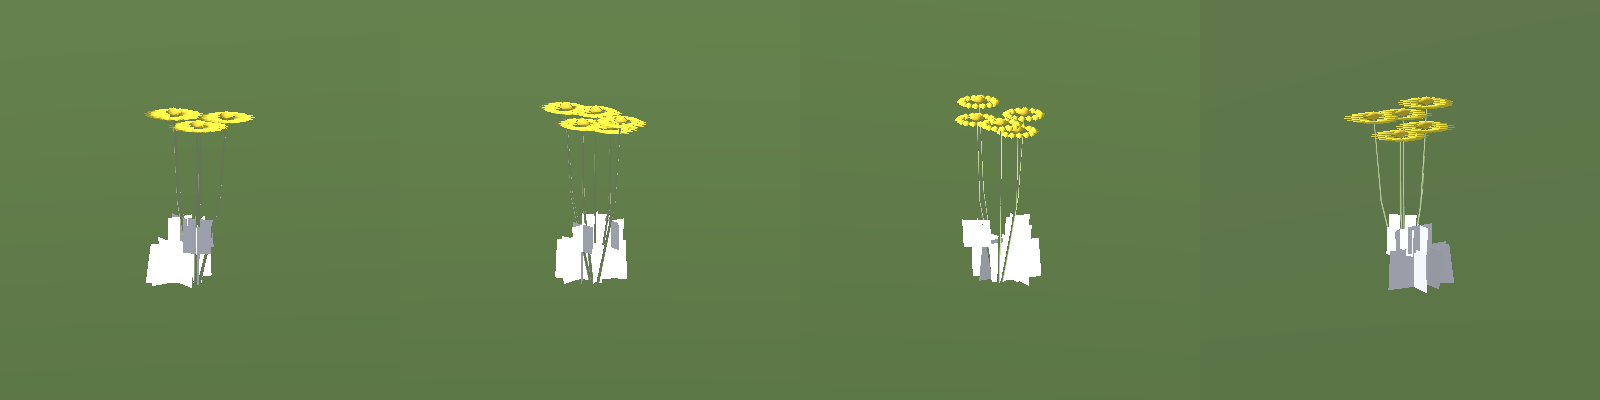
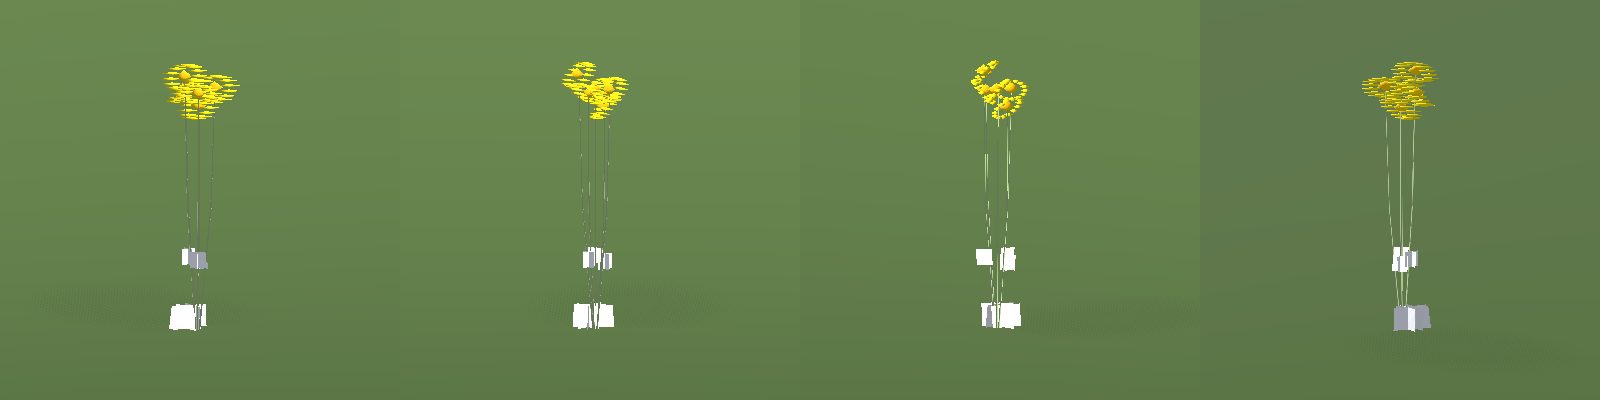
QA card meadow flowers: round 2 picture

diff --git a/questions/QUESTIONS.md b/questions/QUESTIONS.md
@@ -104,7 +104,7 @@ Note: Real game, noon, at the spawn looking east. Flora rates it 3 of 5: dense a
 - Yes
 - No
 
-## pic-meadow-flowers | Are these meadow flowers (dandelion shown; stems 0.3 to 0.5 m, bigger heads) tall and bold enough to show up in grass?
+## pic-meadow-flowers | Are these meadow flowers (dandelion shown; stems about 1 m, heads 18 cm across) tall and bold enough to show up in grass?
 Image: questions/img/meadow_dandelion.png
 Note: Render of the model alone, four views, not the real game. Kathleen rates it 3.5 of 5. Ten flower types (dandelion, chamomile, yarrow, wild carrot and others) got the same change. The flora session turns on the densities after the merge.
 - Yes
